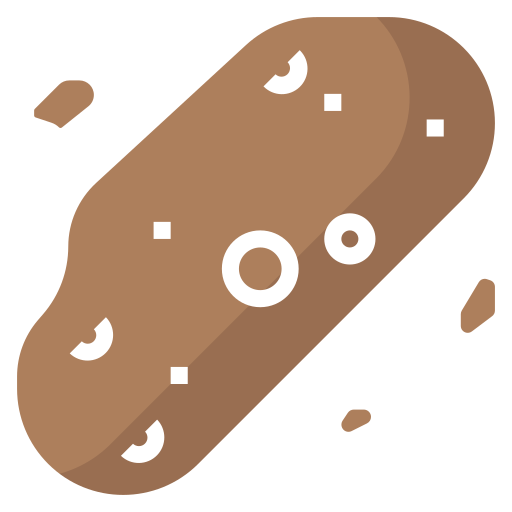
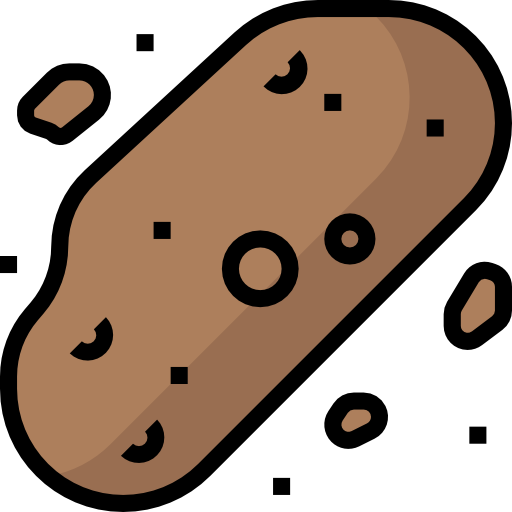
Switch sort images to match black theme

diff --git a/src/components/SortBox/SortBox.tsx b/src/components/SortBox/SortBox.tsx
@@ -14,7 +14,7 @@ const SortBox: React.FC<Props> = ({ updateSort }) => {
         <input type="radio" onClick={updateSort} id="diameter" name="sortCriteria" value="diameter"></input>
         <label htmlFor="diameter"><img className='sort-icon' alt='astronaut icon' src='../space/visiter.png'></img>Diameter</label>
         <input type="radio" onClick={updateSort} id="gravity" name="sortCriteria" value="gravity"></input>
-        <label htmlFor="gravity"><img className='sort-icon' alt='astronaut icon' src='../space/falling-star.png'></img>Gravity</label>
+        <label htmlFor="gravity"><img className='sort-icon' alt='astronaut icon' src='../space/comet.png'></img>Gravity</label>
         <input type="radio" onClick={updateSort} id="lengthOfDay" name="sortCriteria" value="length_of_day"></input>
         <label htmlFor="lengthOfDay"><img className='sort-icon' alt='astronaut icon' src='../space/orbit.png'></img>Length of day</label>
         <input type="radio" onClick={updateSort} id="lengthOfYear" name="sortCriteria" value="length_of_year"></input>
